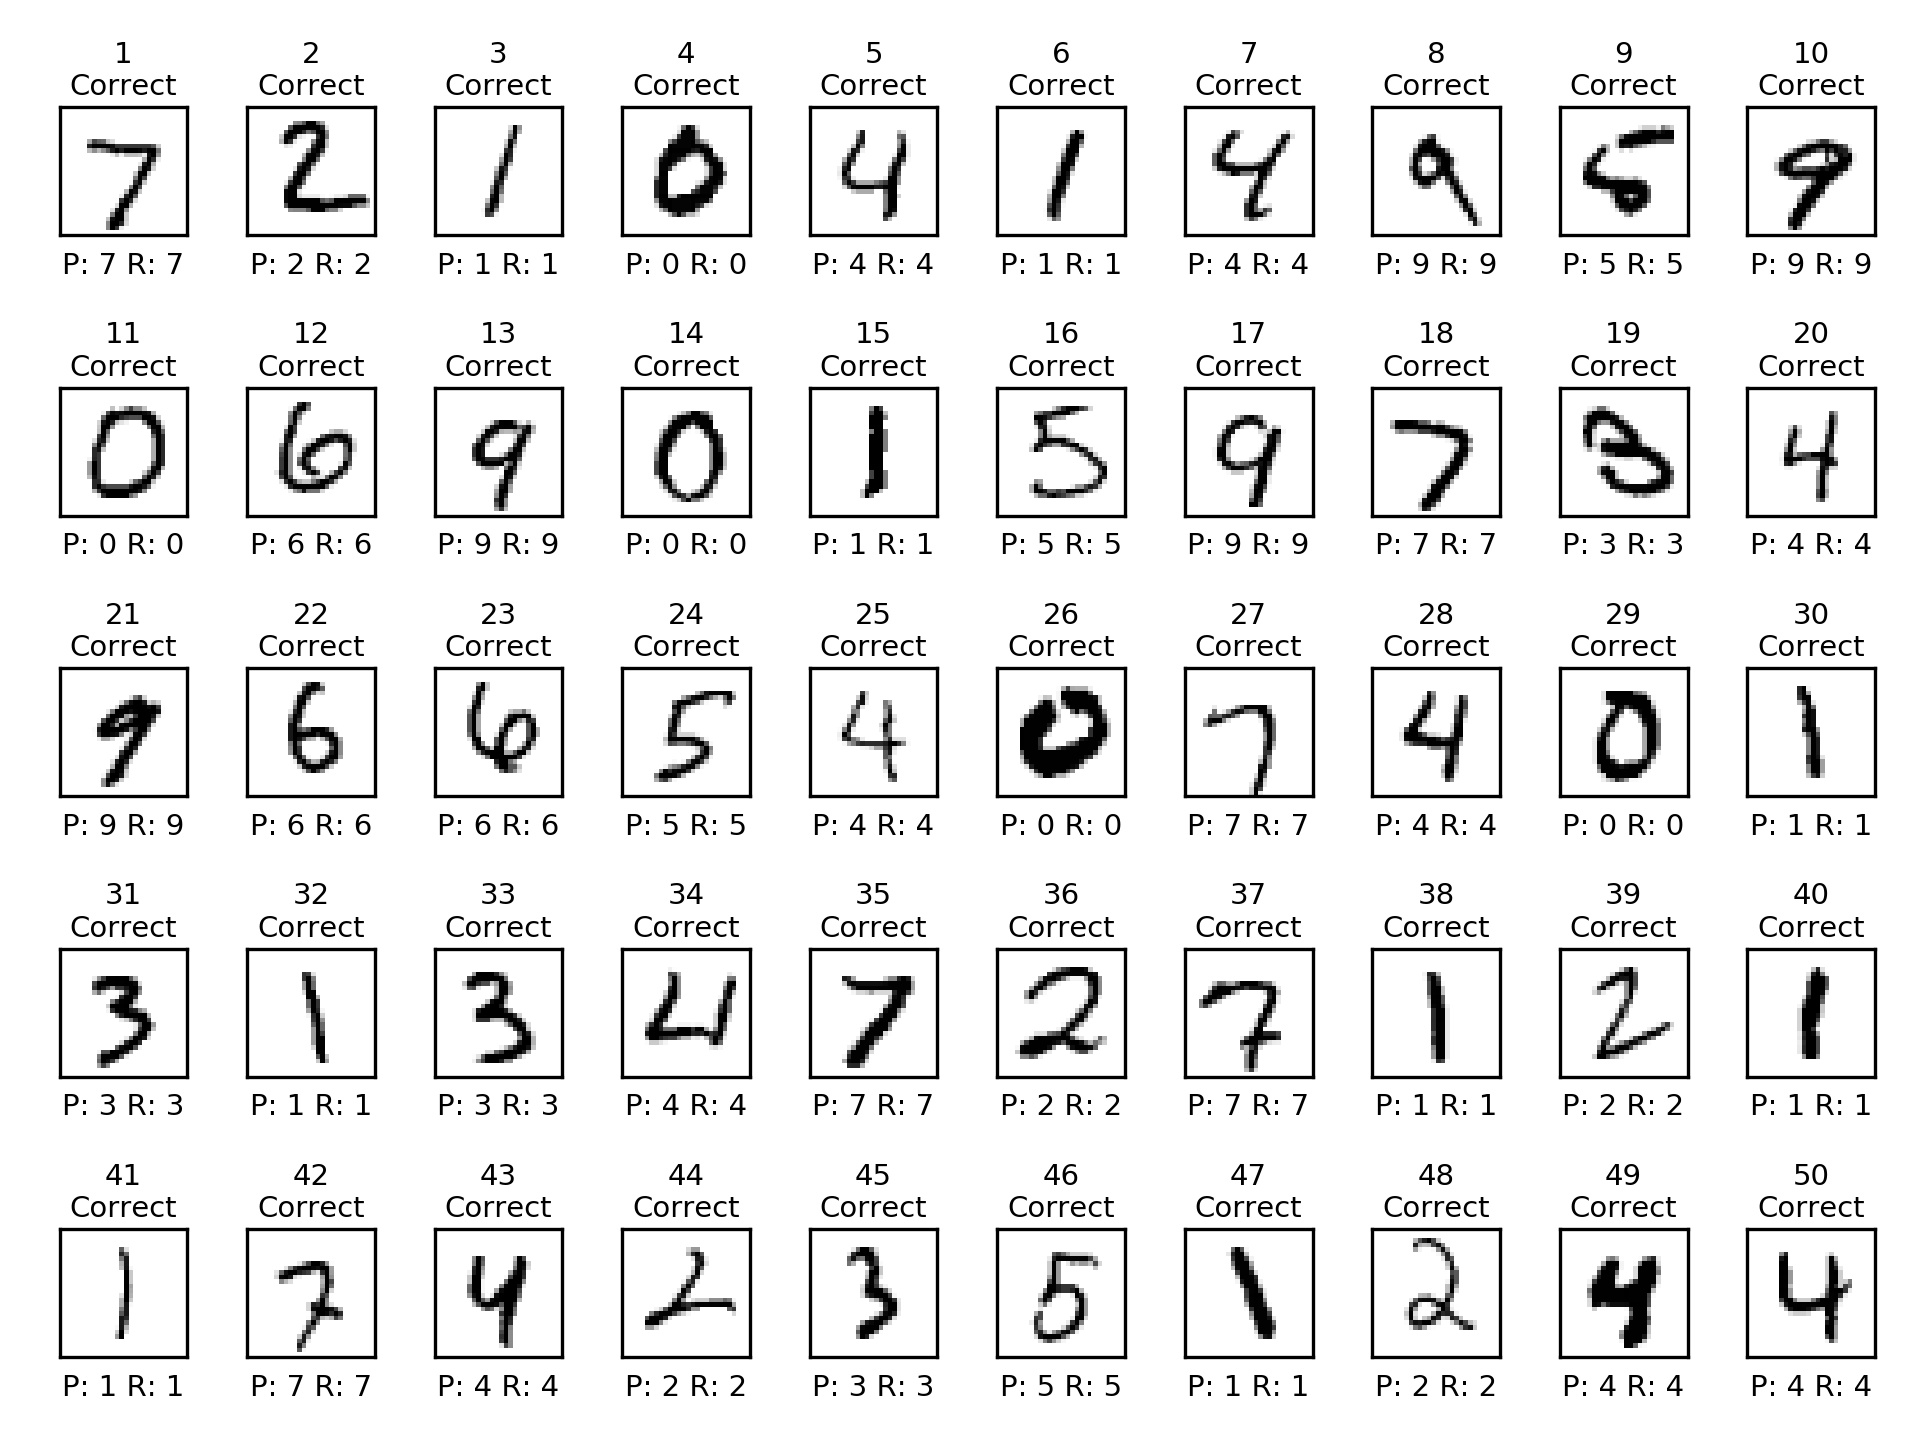
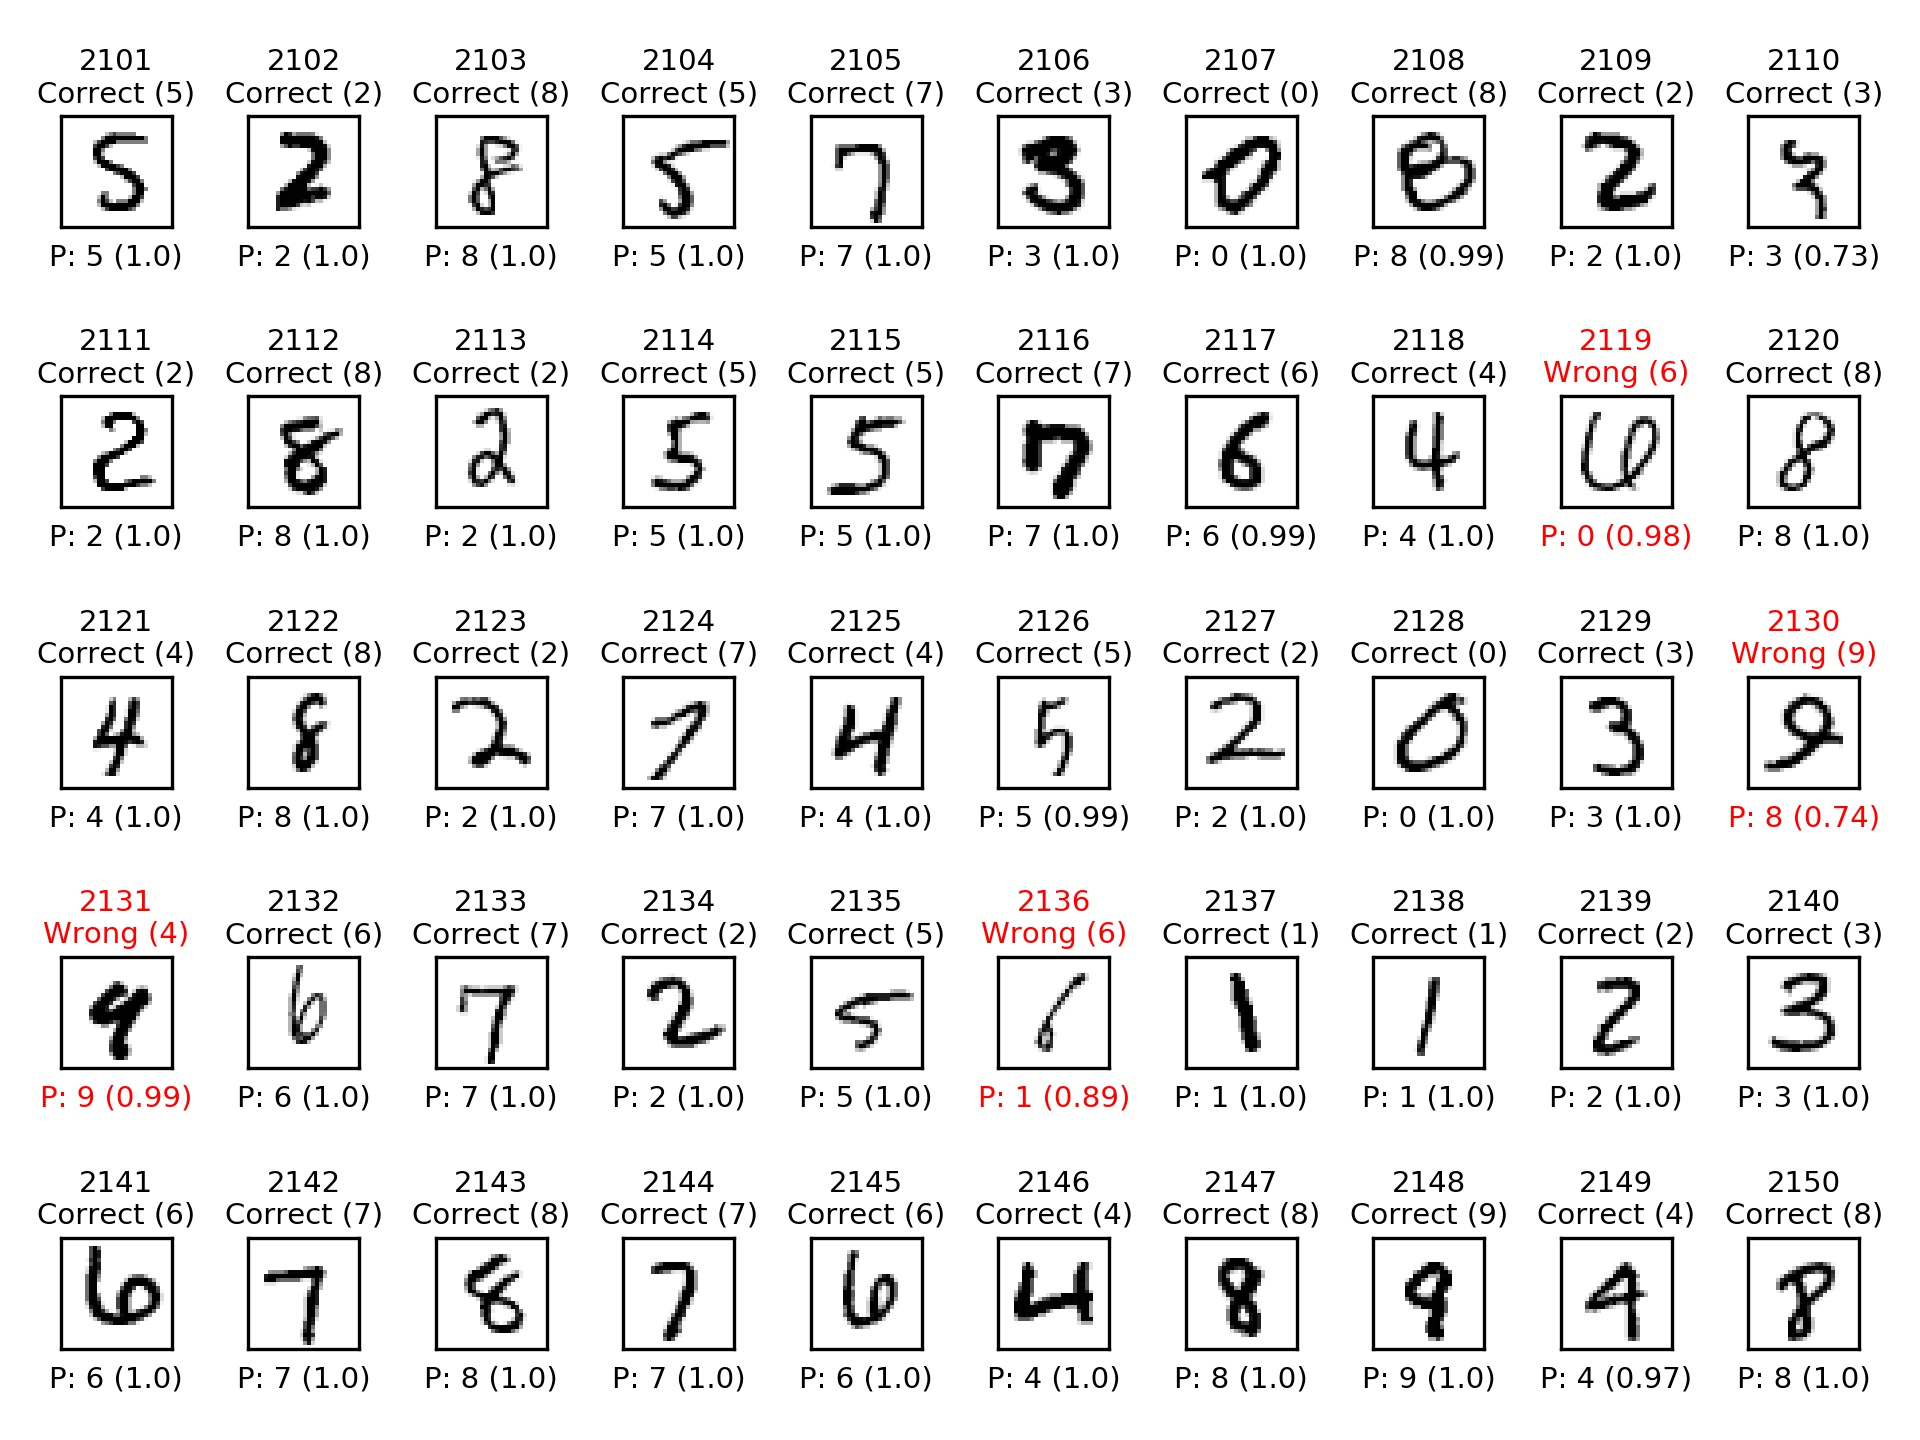
Add files via upload

diff --git a/mnist-visualizer.py b/mnist-visualizer.py
@@ -23,7 +23,7 @@ def display_predictions(model_file_path):
     if not os.path.exists("figs"):
         os.mkdir("figs")
 
-    failed = False
+    failed = False  # Will be set to True if a plot contains a failed prediction
 
     how_many_digits_per_plot = 50
     for i, _ in enumerate(x_test):
@@ -49,11 +49,11 @@ def display_predictions(model_file_path):
         prediction = np.argmax(predictions[0])
 
         if prediction == y_test[i]:
-            plt.title(str(i + 1) + "\nCorrect", color="black", fontsize=7, y=0.9)
-            plt.xlabel('P: ' + str(prediction) + " R: " + str(y_test[i]), color="black", fontsize=7)
+            plt.title(str(i + 1) + "\nCorrect" + " (" + str(y_test[i]) + ")", color="black", fontsize=7, y=0.9)
+            plt.xlabel('P: ' + str(prediction) + " (" + str(round(predictions[0][prediction], 2)) + ")", color="black", fontsize=7)
         else:
-            plt.title(str(i + 1) + "\nWrong", color="red", fontsize=7, y=0.9)
-            plt.xlabel('P: ' + str(prediction) + " R: " + str(y_test[i]), color="red", fontsize=7)
+            plt.title(str(i + 1) + "\nWrong" + " (" + str(y_test[i]) + ")", color="red", fontsize=7, y=0.9)
+            plt.xlabel('P: ' + str(prediction) + " (" + str(round(predictions[0][prediction], 2)) + ")", color="red", fontsize=7)
             failed = True
 
         # Every 100th iteration save the plot and start another one
